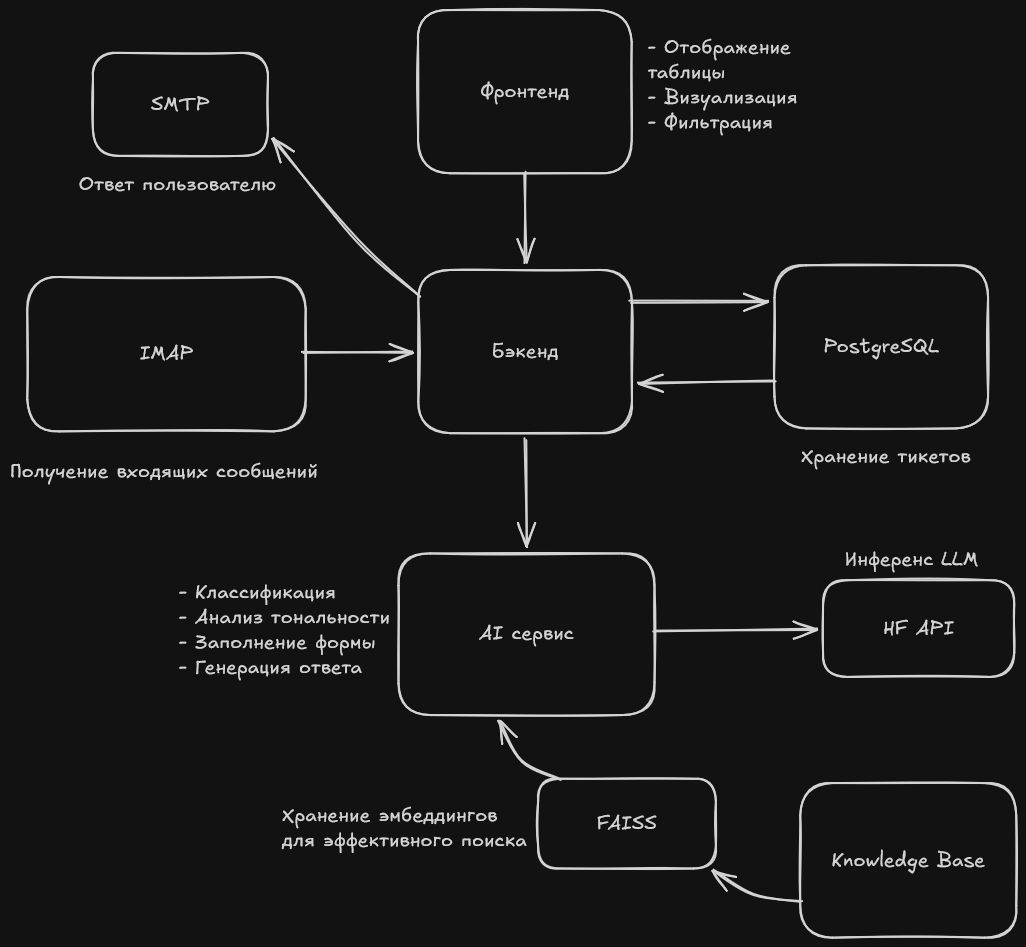
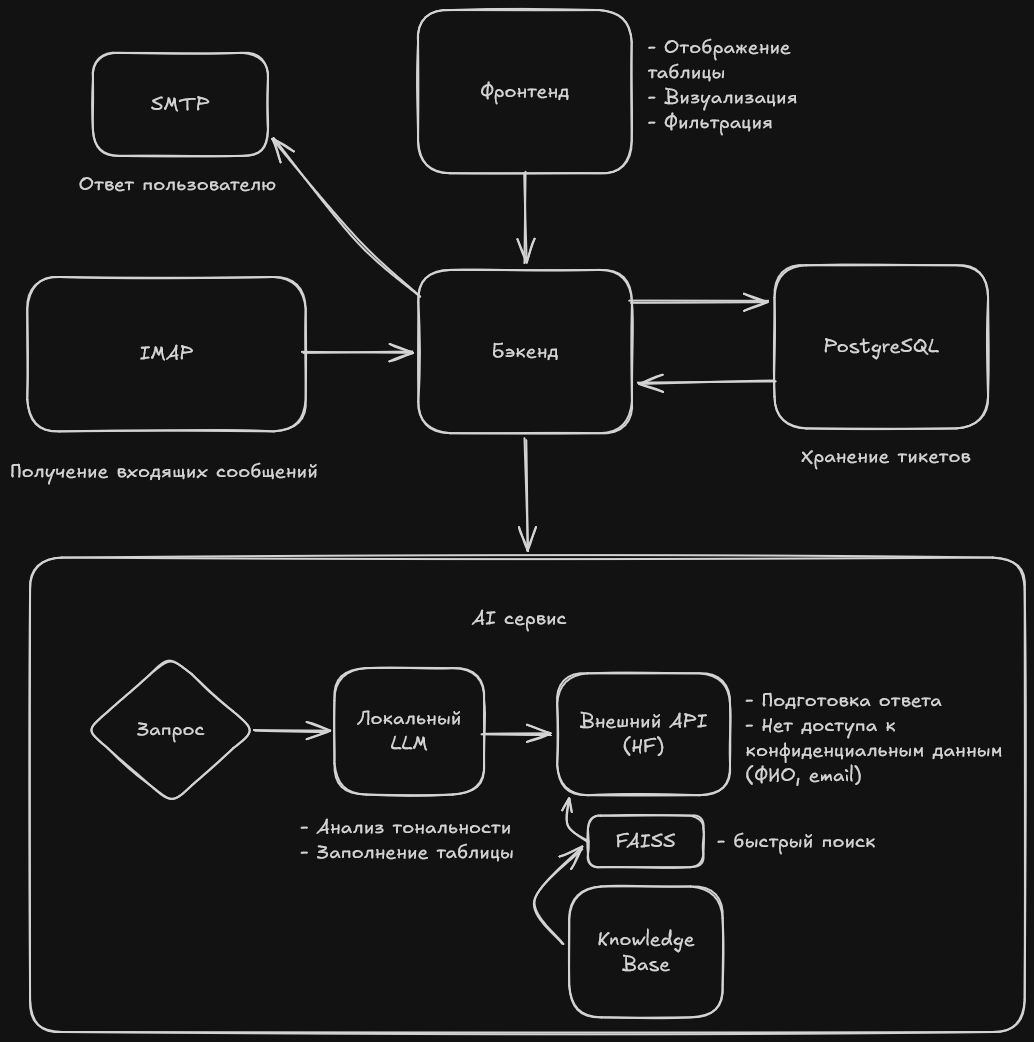
update README

diff --git a/README.md b/README.md
@@ -1,3 +1,209 @@
-Enigma Hack
+# Enigma Hack  
+> AI-агент для автоматизации обработки писем технической поддержки газовой службы  
+
+---
+
+## 1. О проекте
+
+Интеллектуальная система автоматизации службы поддержки, предназначенная для обработки входящих электронных писем от пользователей газовых служб. Система анализирует текст обращений, извлекает ключевые данные (ФИО, контакты, данные прибора), определяет эмоциональный окрас и тональность письма, а также генерирует обоснованный ответ на основе базы знаний приборов (RAG).
+
+**Основные возможности:**
+*   **Автоматическое извлечение данных:** Парсинг текста письма для получения ФИО, телефона, email, объекта и характеристик прибора.
+*   **Анализ тональности:** Выявление недовольных клиентов для приоритетной обработки.
+*   **Гибридный AI:** Сочетание локальной модели для обработки конфиденциальных данных и облачной модели для качественной генерации ответов.
+*   **База знаний (RAG):** Использование документации к приборам для формирования точных технических ответов.
+*   **Минимизация ручного труда:** Автоматическое заполнение базы данных и отправка ответов пользователям.
+
+---
+
+## 2. Архитектура
+
+Система построена на принципах **гибридной архитектуры AI**, обеспечивающей баланс между качеством генерации, скоростью работы и безопасностью данных.
+
+### Принцип работы
+1.  **Вход:** Бэкенд опрашивает IMAP-сервер и передает тело письма в AI-модуль.
+2.  **Локальная обработка (Privacy-first):** Письмо обрабатывается локальной моделью **Qwen 2.5 7B Instruct**. Извлекаются PII-данные (ФИО, телефон), исправляются опечатки и формируется краткая суть проблемы. Данные остаются внутри контура сервера.
+3.  **Поиск решения (RAG):** Суть проблемы векторизуется моделью **E5-base** (поддерживает мультиязычные текста), в локальной базе **FAISS** ищутся релевантные инструкции из PDF-документации.
+4.  **Генерация ответа:** Если решение найдено, суть проблемы и контекст отправляются в облачную модель **Qwen 2.5 14B** (Hugging Face) для генерации вежливого и формального ответа.
+5.  **Выход:** AI-модуль возвращает структурированный JSON. Бэкенд сохраняет данные в PostgreSQL и отправляет ответ пользователю через SMTP.
 
 ![Схема](assets/enigma_scheme.png)
+
+---
+
+## 3. Технологический стек
+
+**Frontend:**
+*   [SvelteKit](https://kit.svelte.dev/) — пользовательский интерфейс и аналитика.
+
+**Backend:**
+*   [FastAPI](https://fastapi.tiangolo.com/) — асинхронный веб-фреймворк.
+*   [Pydantic](https://docs.pydantic.dev/) — валидация данных и настроек.
+*   [PostgreSQL](https://www.postgresql.org/) — хранение данных обращений.
+
+**AI & ML:**
+*   **Local LLM:** Qwen 2.5 7B Instruct (GGUF) через `llama-cpp-python`.
+*   **Cloud LLM:** Qwen 2.5 14B Instruct через Hugging Face Inference API.
+*   **Embeddings:** `intfloat/multilingual-e5-base`.
+*   **Vector Store:** FAISS (CPU).
+*   **PDF Parser:** PyMuPDF.
+
+**Infrastructure:**
+*   Docker & Docker Compose.
+
+---
+
+## 4. Структура проекта
+
+Проект организован как монорепозиторий с разделением фронтенда и монолитного бэкенда.
+
+```text
+project/
+├── .env                  # Общие переменные окружения (ключи API, доступы к БД)
+├── docker-compose.yml    # Оркестрация контейнеров
+├── frontend/             # SvelteKit приложение
+└── backend/              # FastAPI + AI сервис
+    ├── .venv/            # Виртуальное окружение Python
+    ├── app/
+    │   ├── main.py       # Точка входа, инициализация FastAPI
+    │   ├── config.py     # Загрузка конфигурации
+    │   ├── api/          # Роутеры и эндпоинты
+    │   ├── models/       # Pydantic схемы (Input/Output JSON)
+    │   └── services/     # Ядро AI (Local LLM, RAG, Cloud LLM)
+    ├── data/
+    │   ├── knowledge_base/ # Папка для PDF файлов (База знаний)
+    │   ├── faiss_index/   # Кэш векторного индекса
+    │   └── models/        # Хранение весов локальных моделей (.gguf)
+    ├── requirements.txt
+    └── Dockerfile
+```
+
+---
+
+## 5. Установка и запуск
+
+### Требования
+*   Docker и Docker Compose.
+*   **Оперативная память:** Минимум **10-12 ГБ RAM** (для запуска Qwen 7B в оперативной памяти).
+*   Hugging Face Token (для доступа к облачной модели 14B).
+
+### Шаги запуска
+
+1.  **Клонирование репозитория:**
+    ```bash
+    git clone <repo_url>
+    cd project
+    ```
+
+2.  **Настройка окружения:**
+    Создайте файл `.env` в корне проекта и заполните его по шаблону:
+    ```env
+    # Hugging Face
+    HF_TOKEN=hf_xxxxxxxxxxxxx
+
+    # Paths (внутри контейнера Docker)
+    LOCAL_MODEL_PATH=./data/models/qwen2.5-7b-instruct-q4_k_m.gguf
+    CLOUD_MODEL_NAME=Qwen/Qwen2.5-14B-Instruct
+
+    # Database
+    DATABASE_URL=postgresql://user:password@db:5432/gas_support
+    ```
+
+3.  **Подготовка модели:**
+    Скачайте файл модели `qwen2.5-7b-instruct-q4_k_m.gguf` (например, с Hugging Face) и поместите его в папку `backend/data/models/`.
+
+4.  **Подготовка базы знаний:**
+    Поместите PDF-файлы с документацией приборов в папку `backend/data/knowledge_base/`.
+
+5.  **Сборка и запуск:**
+    ```bash
+    docker-compose up --build
+    ```
+    При первом запуске система автоматически проиндексирует PDF-файлы (создаст FAISS index).
+
+---
+
+## 6. Использование AI-модуля
+
+### Обработка писем
+AI-модуль работает в синхронном режиме внутри эндпоинта `/process`. Система спроектирована так, чтобы не блокировать основной поток FastAPI, используя `run_in_executor` для тяжелых вычислений на CPU.
+
+### Обновление базы знаний (Hot Reload)
+Для добавления новых инструкций или обновления документации не требуется пересборка или перезапуск Docker-контейнера. Это критически важно для поддержания бесперебойной работы сервиса, так как перезапуск контейнера влечет за собой повторную загрузку LLM-модели в оперативную память, что занимает значительное время (до 1-2 минут) и делает сервис недоступным.
+
+**Алгоритм обновления:**
+1.  Добавьте новые PDF файлы в папку `backend/data/knowledge_base/`.
+2.  Отправьте POST запрос на эндпоинт `/api/v1/reload-kb`.
+3.  Система пересканирует папку, обновит векторный индекс и сохранит его на диск "на лету", оставаясь доступной для обработки входящих писем.
+
+### Обработка ошибок и отказоустойчивость
+*   Если в базе знаний нет ответа, система автоматически проставляет флаг `escalate_to_operator: true`.
+*   При недоступности облачного API (HF) используются повторные попытки (Exponential Backoff). При исчерпании попыток тикет передается оператору.
+
+---
+
+## 7. Frontend
+
+Веб-интерфейс разработан на **SvelteKit** и предоставляет удобные инструменты для мониторинга и анализа работы системы.
+
+### Основной функционал
+
+#### Таблица обращений
+Главная страница отображает список всех обработанных обращений с возможностью:
+*   **Пагинации и фильтрации:** Быстрый поиск нужного тикета.
+*   **Экспорта данных:** Выгрузка таблицы в форматах `.csv` и `.json`.
+
+> **Важно:** Прямой экспорт в формат `.xlsx` намеренно отключен. Использование библиотек для Excel увеличивает размер клиентского бандла на 30-50 Кб и может вызывать зависание интерфейса при экспорте больших объемов данных (от 10 000 записей). Поскольку Microsoft Excel корректно открывает файлы `.csv`, выбор сделан в пользу производительности и легкости приложения.
+
+#### Аналитика
+Раздел "Аналитика" предоставляет визуализацию статистики работы службы поддержки:
+*   **Круговая диаграмма:** Распределение тональности обращений (положительные, негативные, нейтральные).
+*   **Гистограммы:**
+    *   Топ-5 самых упоминаемых типов приборов.
+    *   Топ-5 компаний, обратившихся в службу поддержки.
+*   **Линейный график (Line Chart):** Динамика количества обращений по датам.
+
+![Таблица](assets/tables.png)
+![Аналитика](assets/analytics.png)
+
+---
+
+## 8. API-документация
+
+Основные эндпоинты, предоставляемые бэкендом:
+
+### `POST /api/v1/process`
+Принимает тело письма, возвращает структурированные данные и ответ.
+
+**Request Body:**
+```json
+{
+  "email_body": "Здравствуйте, Иванов Иван. Мой газоанализатор ГА-01 зав. номер 123 не включается. Телефон +7900..."
+}
+```
+
+**Response Body:**
+```json
+{
+  "extracted_data": {
+    "name": "Иванов Иван",
+    "phone": "+7900...",
+    "device_type": "ГА-01",
+    "device_serial": "123"
+  },
+  "analysis": {
+    "sentiment": "neutral",
+    "summary": "Газоанализатор ГА-01 не включается."
+  },
+  "resolution": {
+    "response_text": "Уважаемый Иван, проверьте питание...",
+    "escalate_to_operator": false
+  }
+}
+```
+
+### `POST /api/v1/reload-kb`
+Принудительная перезагрузка базы знаний из PDF файлов без простоя сервиса.
+
+---
+*Разработано для хакатона Enigma Hack.*
